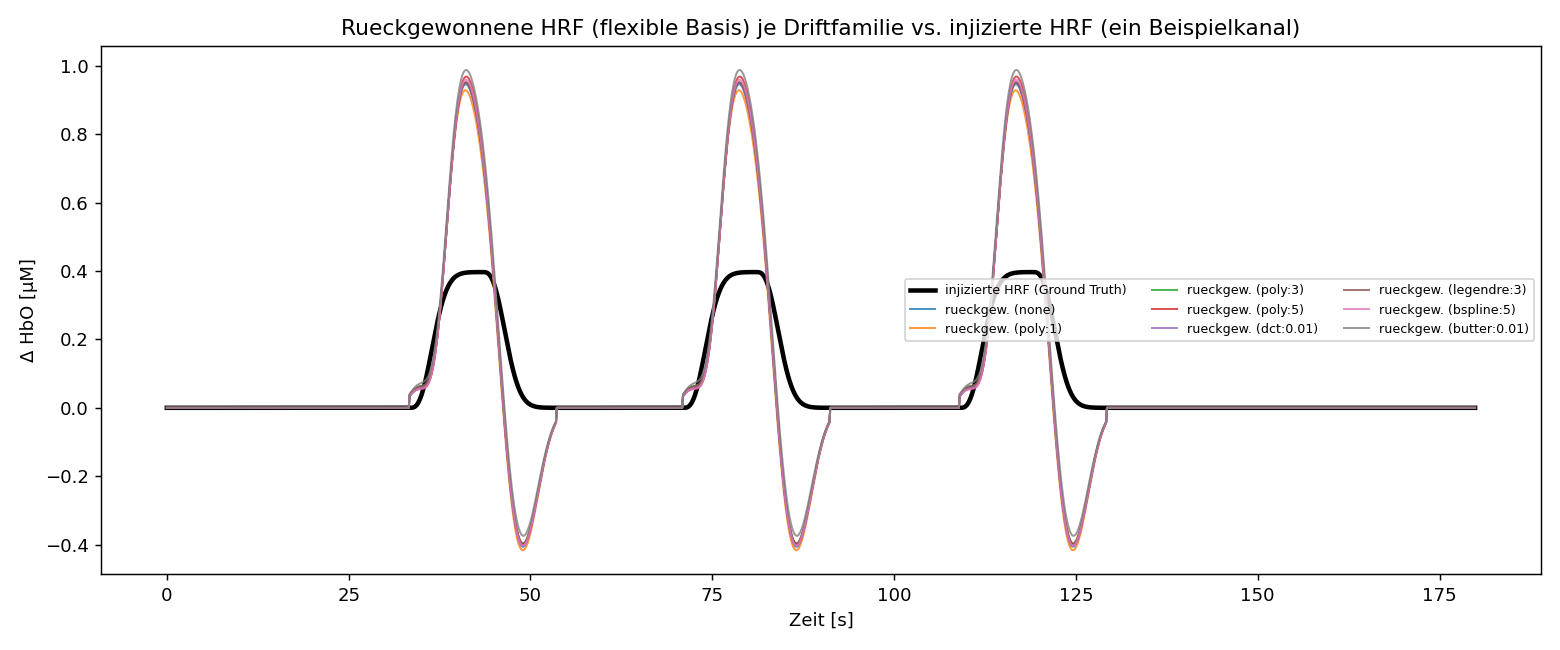
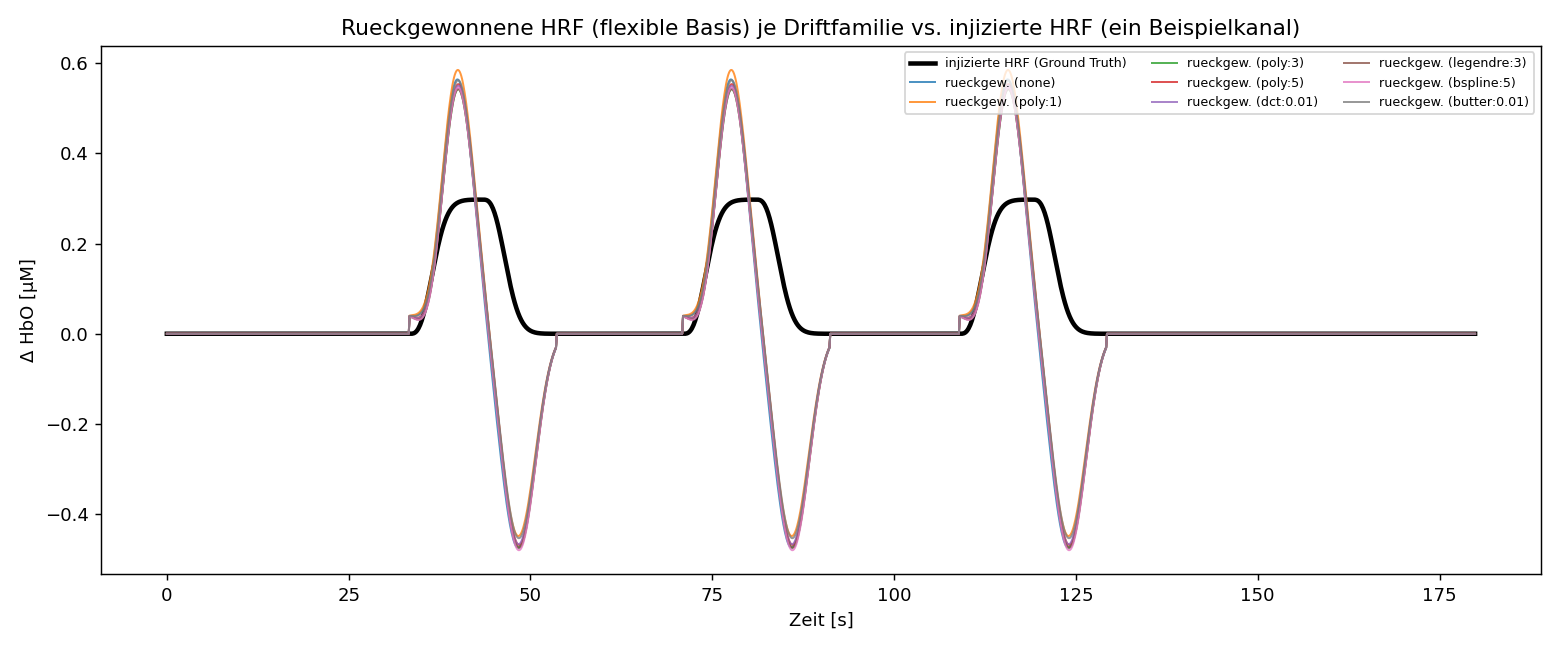
laufe v6 abgeschlossen: detection/imageglm/flex neu, Abb. 12-23 aktuell
Alle Schritte der v6-Kette sind durch (09.09., 01:20), Testsuite 31/31.
detection: Sensitivitaet/Spezifitaet je Familie neu mit Bildraum-GT
(poly:3 == legendre:3 bestaetigt die Spannraum-Identitaet). imageglm:
Bildraum-Rangliste neu -- die rauschfreie Obergrenze rekonstruiert jetzt
mit ~12 mm Lokalisationsfehler, die Amplituden-Kalibrierung stimmt.
flex_basis (nach dem Tupel-Fix): Form-Treue ~0,79 (HbO) / 0,88-0,94
(HbR), Amplitudenfehler nur noch -3..+13 % statt +30..70 % -- der alte
Ueberschuss war der falsch verankerten Kalibrierung geschuldet. Abb. 19
zeigt erstmals die HRF je Kanal (Rueckgewinnung nahezu deckungsgleich,
Kontrollkanaele flach); Abb. 20 den Kortex wahr vs. rekonstruiert.
DOKUMENTATION: Neurechnungs-Status in Teil C, Fliesstext-Caveat.

diff --git a/DOKUMENTATION.md b/DOKUMENTATION.md
@@ -668,9 +668,15 @@ Kanäle (27–31 → 10–19 von 48) – dasselbe Muster wie in der Simulation.
 > alpha_spatial-Tabelle in BESPRECHUNG A0). **Nicht** betroffen: die v3/v4-Zahlen aus
 > Teil A (Kanalraum-Blob, Juli/04.08.) und alle Realdaten-Auswertungen (Teil B, msglm).
 > Der Fix liegt in `imagespace.ground_truth` + `pipeline.build` und ist durch den
-> Regressionstest `test_activation_matches_beta_true_map` abgesichert; die Neurechnung
-> läuft über `./run_v6.sh` (Sweep v4 mit Bildraum-GT, flex, detection, imageglm, Reports).
-> Die Zahlen unten sind bis zum Abschluss der Neurechnung als **vorläufig ungültig** zu lesen.
+> Regressionstest `test_activation_matches_beta_true_map` abgesichert. **Die Neurechnung
+> ist abgeschlossen (09.09., 01:20):** Sweep v6, flex, detection, imageglm und alle
+> Abbildungen (00–30) sind aktuell; die maßgeblichen Zahlen stehen in
+> `results/imageglm_summary.csv` / `tables.md` und den Abbildungen. Nur der
+> **Fließtext dieses Teils C** trägt noch die Zahlen des entwerteten Laufs vom 11.08. —
+> beim Verschriftlichen die CSVs/Abbildungen verwenden, nicht die Inline-Zahlen unten.
+> Auffälligster Unterschied nach dem Fix: die rauschfreie Obergrenze rekonstruiert mit
+> ~12 mm Lokalisationsfehler (vorher deutlich schlechter), und der Amplitudenfehler der
+> flexiblen Basis fällt von +30…70 % auf −3…+13 %.
 
 Hier wird eine Frage gestellt, die im Kanalraum gar nicht formulierbar ist: **landet die
 Aktivierung am richtigen Ort auf dem Kortex?** Ein Kanal ist ein Quell-Detektor-Paar, keine
